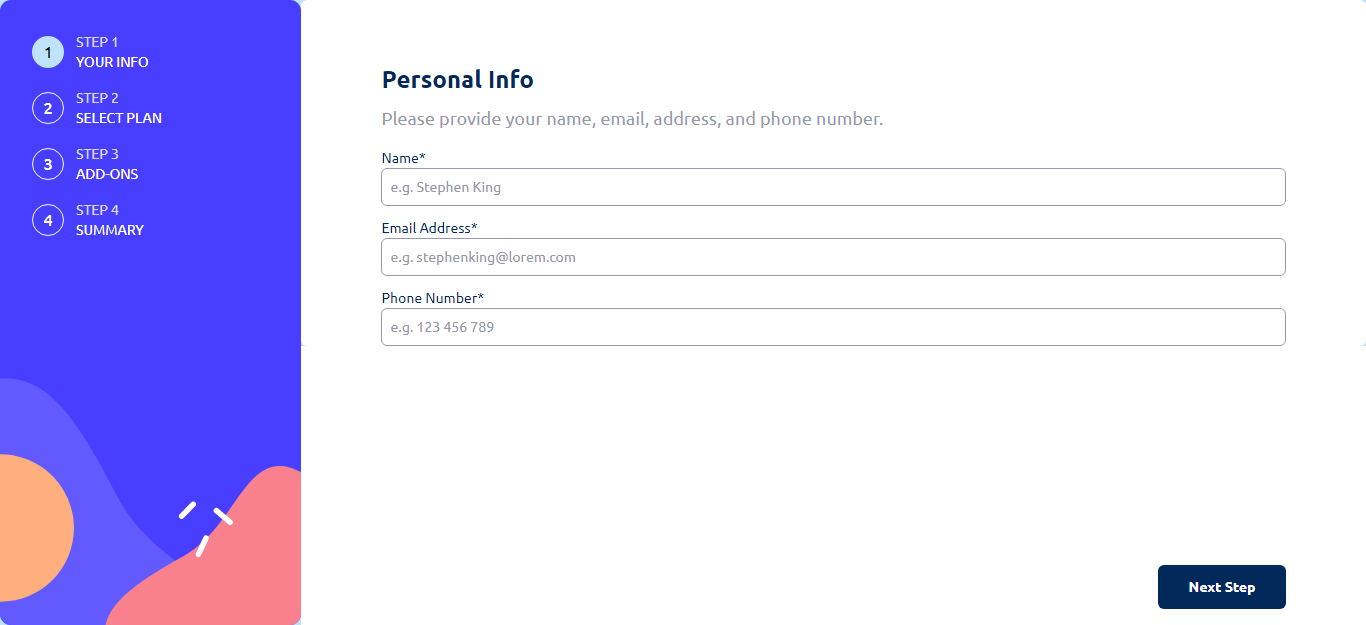
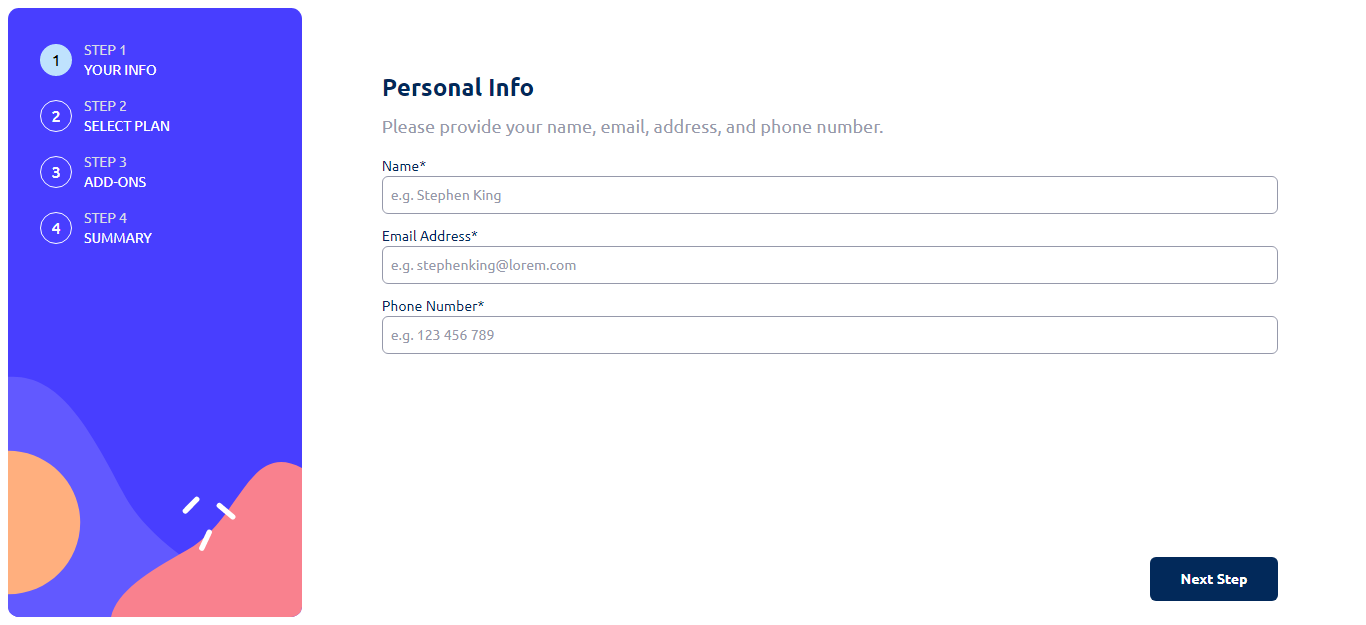
new bg desktop

diff --git a/src/App.tsx b/src/App.tsx
@@ -48,8 +48,8 @@ function App() {
     window.scrollTo(0, 0);
   }, [step, thankYou]);
   return (
-    <div className="flex flex-col lg:flex-row min-h-screen">
-      <nav className="relative w-full lg:w-auto lg:h-screen">
+    <div className="flex flex-col lg:flex-row min-h-screen lg:p-2">
+      <nav className="relative w-full lg:w-auto lg:h-[calc(100vh-1rem)]">
         {width && width >= 1024 ? (
           <img className="w-fit h-full" src={bgSidebarDesktop} alt="" />
         ) : (
@@ -134,8 +134,8 @@ function App() {
           </div>
         </div>
       </nav>
-      <div className="flex flex-col lg:flex-1 lg:max-h-screen lg:overflow-y-auto">
-        <main className="flex flex-col lg:mx-0 lg:h-full lg:px-20 lg:py-0 lg:pt-16 py-9 px-6 bg-neutral-White mx-4 rounded-md -translate-y-[4.5rem] lg:-translate-y-0">
+      <div className="flex flex-col lg:flex-1 lg:max-h-[calc(100vh-1rem)] lg:overflow-y-auto">
+        <main className="flex flex-col lg:mx-0 lg:h-full lg:px-20 lg:py-0 lg:pt-16 py-9 px-6 bg-neutral-White mx-4 rounded-md lg:rounded-none -translate-y-[4.5rem] lg:-translate-y-0">
           {step === 1 && !thankYou ? (
             <StepOne
               missingValue={missingValue}

diff --git a/index.html b/index.html
@@ -6,7 +6,7 @@
     <meta name="viewport" content="width=device-width, initial-scale=1.0" />
     <title>Multi Step Form - Challenge</title>
   </head>
-  <body class="font-Ubuntu bg-primary-LightBlue">
+  <body class="font-Ubuntu bg-primary-LightBlue lg:bg-neutral-White">
     <div id="root"></div>
     <script type="module" src="/src/main.tsx"></script>
   </body>
